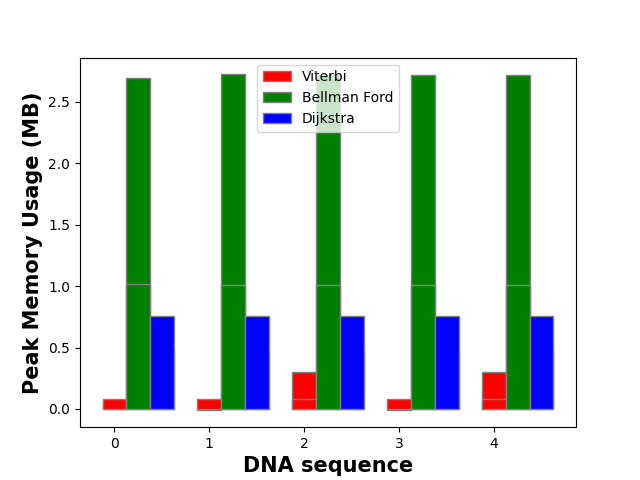
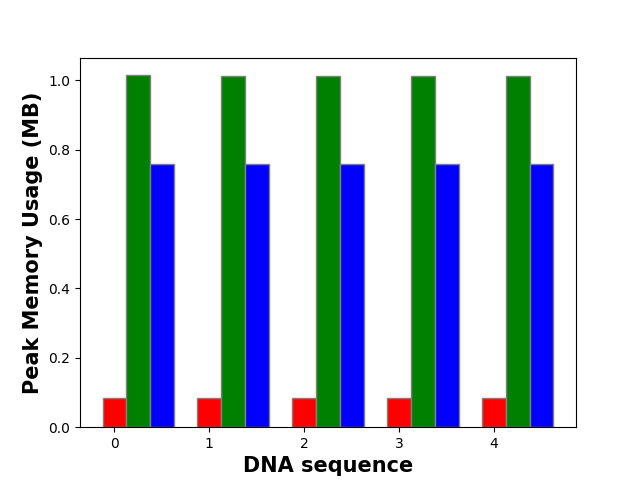
Deleted some useless files

diff --git a/main.py b/main.py
@@ -1,3 +1,5 @@
+import math
+
 import testing
 import pandas as pd
 
@@ -14,6 +16,12 @@ def main():
         'Dijkstra': testing.dijkstraTime
     }
     df = pd.DataFrame(data=d)
+    d2 = {
+        'Viterbi': [10 ** x for x in testing.viterbiTime],
+        'Bellman': [10 ** x for x in testing.bellmanTime],
+        'Dijkstra': [10 ** x for x in testing.dijkstraTime]
+    }
+    df2 = pd.DataFrame(data=d2)
     d1 = {
         'Viterbi': testing.viterbiMem,
         'Bellman': testing.bellmanMem,
@@ -39,6 +47,7 @@ def main():
     plt.legend()
     plt.savefig('Run_Time.png')
 
+    plt.clf()
     plt.bar(br1, testing.viterbiMem, color='r', width=barWidth,
             edgecolor='grey', label='Viterbi')
     plt.bar(br2, testing.bellmanMem, color='g', width=barWidth,
@@ -52,6 +61,7 @@ def main():
 
     print(df)
     print(df1)
+    print(df2)
 
 
 if __name__ == "__main__":
